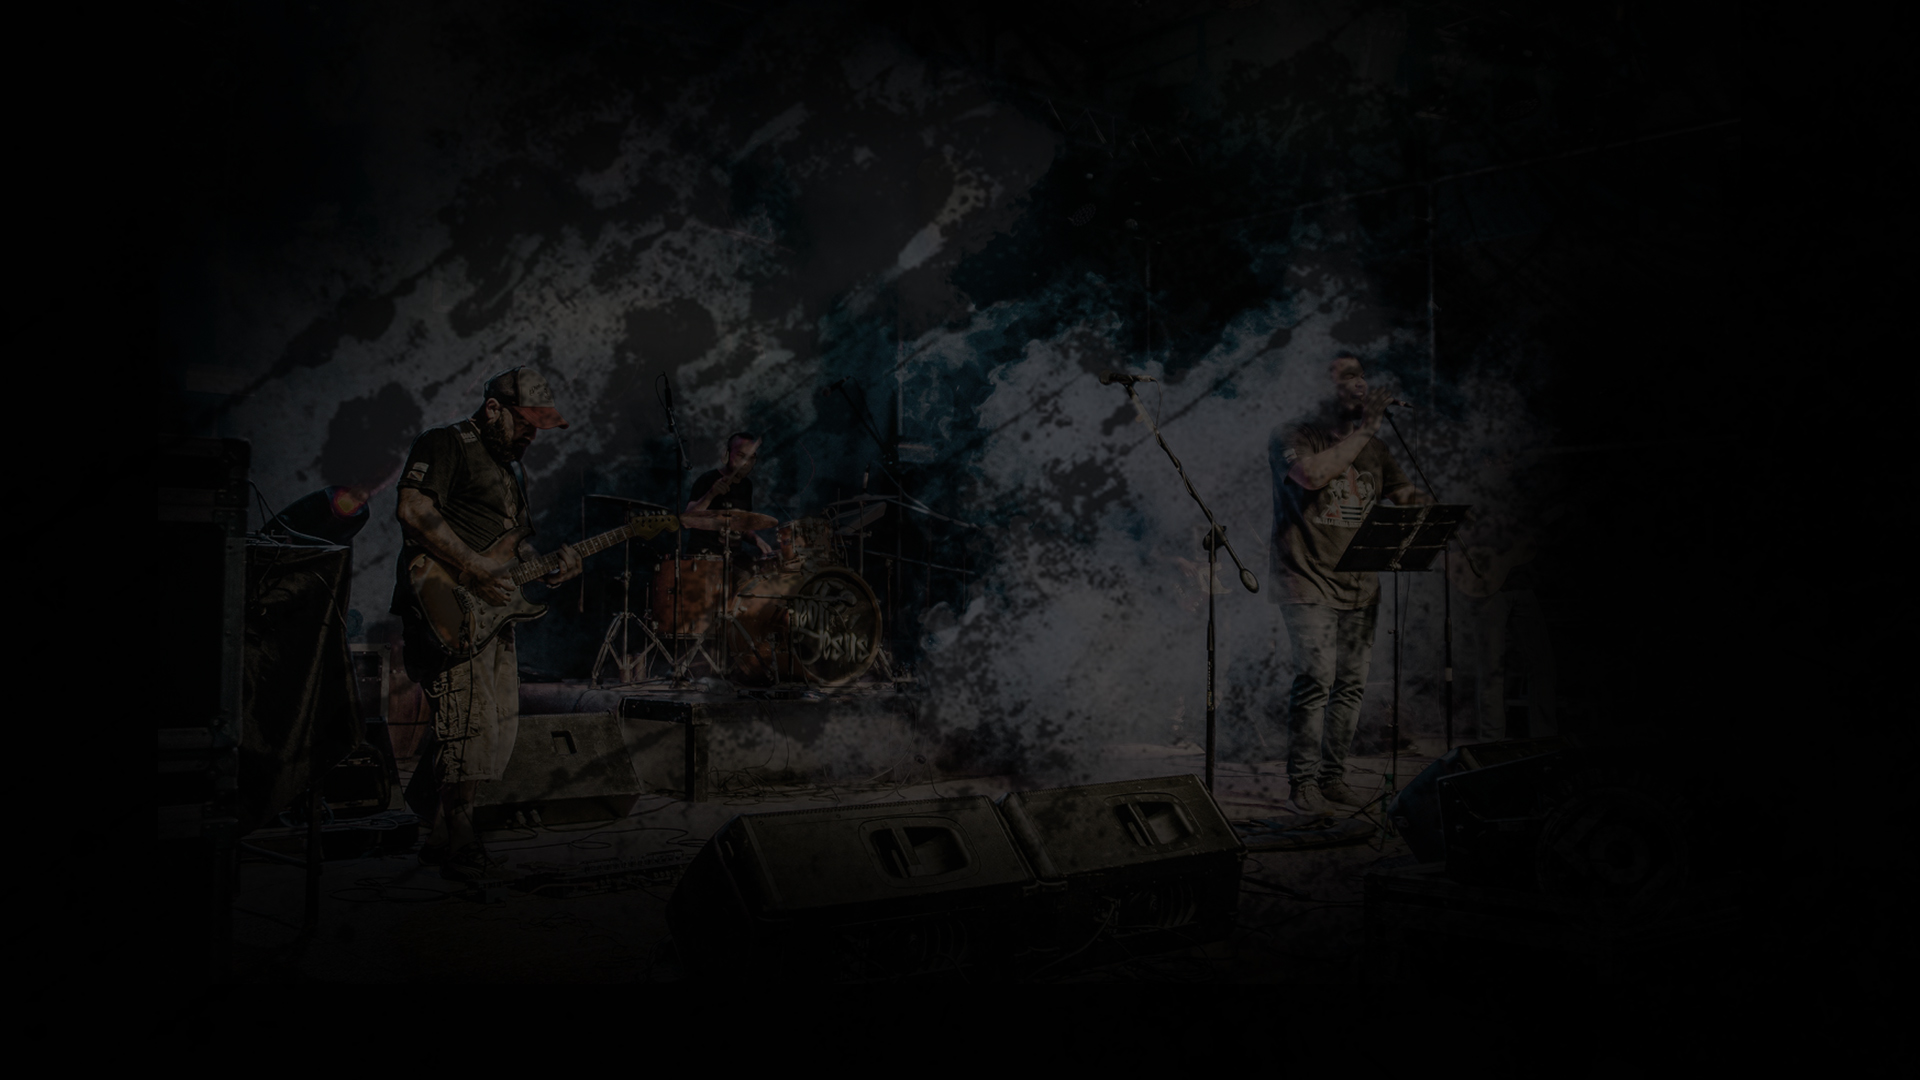
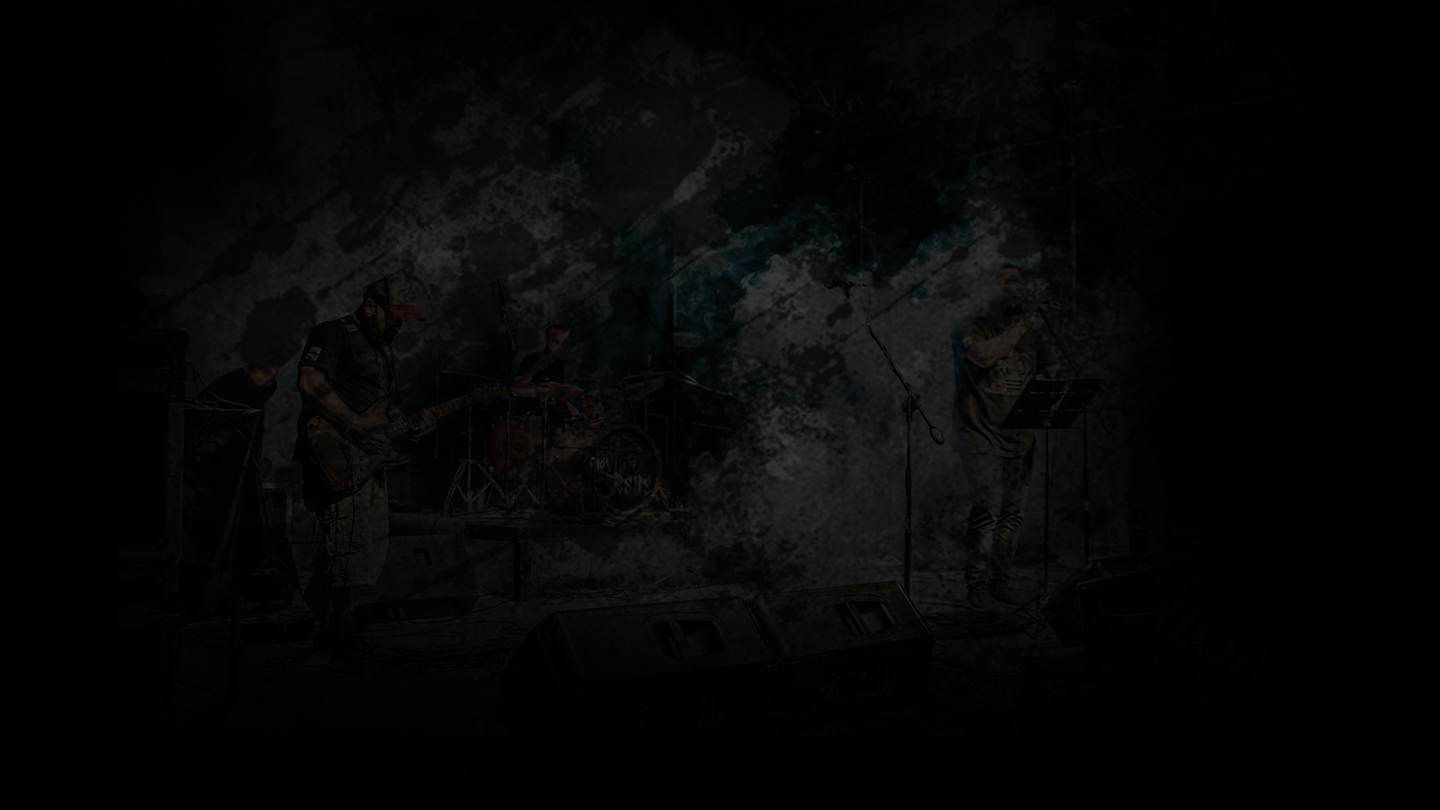
add page Lyrics and backgrounds

diff --git a/src/components/newsletter/Newsletter.jsx b/src/components/newsletter/Newsletter.jsx
@@ -3,10 +3,13 @@ import styled from "styled-components";
 
 const NewsContainer = styled.div`
   width: 100%;
+  height: 50vh;
   display: flex;
+  margin: auto;
   justify-content: center;
   align-items: center;
   color: white;
+  backdrop-filter: blur(2px);
 `;
 
 const NewsBody = styled.div`
@@ -40,9 +43,22 @@ const FormContainer = styled.div`
 `;
 const InputNews = styled.input`
   width: 30rem;
-  background-color: #999696;
+  height: 2.5rem;
+  padding: 2%;
+  background-color: #e0dede;
+  border-radius: 10px;
+  margin: 2% 0.5%;
   @media (max-width: 768px) {
     width: 100%;
+  }
+`;
+const InputButton = styled(InputNews)`
+  width: 15rem;
+  padding: 0;
+  color: white;
+  background-color: #474646;
+  &:hover {
+    background-color: #16d0ff;
   }
 `;
 
@@ -54,16 +70,16 @@ const NewsLetter = () => {
           <span role="img" aria-label="fire">
             🔥
           </span>
-          ¡Enterate de las ultimas novedades!
+          Suscribite a nuestro Whatsapp de difusion
           <span role="img" aria-label="fire">
             🔥
           </span>
         </h3>
-        <p>Suscribite a nuestro newsletter y recibí ofertas exclusivas </p>
+        <p>Mantenete al tanto de todas las novedades, peñas y demas!!! </p>
         <FormContainer>
           <form action="">
-            <InputNews type="email" placeholder="Tu Email..." />
-            <button>Suscribirse</button>
+            <InputNews type="text" placeholder="Tu Telefono" />
+            <InputButton type="submit" value="Enviar" />
           </form>
         </FormContainer>
       </NewsBody>

diff --git a/src/App.js b/src/App.js
@@ -7,11 +7,12 @@ import Gallery from "./pages/gallery/Gallery";
 import Listen from "./pages/listen/Listen";
 import Contact from "./pages/contact/Contact";
 import styled from 'styled-components';
-import back from './assets/img/back1.jpg'
+import back from './assets/img/back2.jpg'
 import background from './assets/img/background.jpg'
 import { Modal } from "./components/modal/Modal";
 import { useOpenImg } from './hooks/useOpenImg'
 import NewsLetter from "./components/newsletter/Newsletter";
+import Lyrics from "./pages/letras/Lyrics";
 
 
 
@@ -19,8 +20,8 @@ const AppContainer = styled.div`
 text-align: center;
   background-image: url(${background});
 background-size:cover;
-@media (max-width: 700px){
-  background-image: url(${background});
+@media (max-width: 768px){
+  background-image: url(${back});
 background-size:cover;
 }`
 
@@ -41,6 +42,7 @@ function App() {
         <Route path="about" element={<About />} />
         <Route path="gallery" element={<Gallery {...showModal} />} />
         <Route path="listen" element={<Listen />} />
+        <Route path="lyrics" element={<Lyrics />} />
         <Route path="contact" element={<Contact />} />
       </Routes>
       <NewsLetter />

diff --git a/src/pages/about/About.jsx b/src/pages/about/About.jsx
@@ -4,12 +4,15 @@ import styled from "styled-components";
 const Container = styled.div`
   margin: auto;
   padding: 2%;
+  backdrop-filter: grayscale(85%) contrast(95%);
 `;
 const Title = styled.h2`
   font-size: 2rem;
   color: antiquewhite;
 `;
 const P = styled.p`
+  font-family: "Roboto";
+  font-weight: 100;
   color: antiquewhite;
   letter-spacing: 0.1rem;
   margin-top: 1%;
@@ -23,7 +26,7 @@ const TextContainer = styled.div`
 const About = () => {
   return (
     <Container>
-      <Title>La Otra junta</Title>
+      <Title>Historia</Title>
       <TextContainer>
         <P>
           Somos un grupo folclórico formado a finales del 2015, influenciado por

diff --git a/src/pages/contact/Contact.jsx b/src/pages/contact/Contact.jsx
@@ -26,7 +26,7 @@ const FormContainer = styled.div`
   border-radius: 15px;
   input {
     width: 100%;
-    margin: 1rem auto 0.5rem;
+    margin: 1rem auto 1rem;
     padding: 2%;
     border-radius: 10px;
     border: none;
@@ -51,12 +51,18 @@ const FormContainer = styled.div`
     background-color: #1f7379;
   }
   @media (max-width: 700px) {
-    width: 90%;
+    width: 95%;
     padding: 2%;
     input {
-      height: 2.5rem;
-      margin: 0.5rem auto 0.5rem;
-      padding: 1%;
+      height: 1.9rem;
+      padding: 2%;
+    }
+    textarea {
+      height: 2.9rem;
+      padding: 2%;
+    }
+    button {
+      width: 90%;
     }
   }
 `;

diff --git a/src/pages/letras/Lyrics.jsx b/src/pages/letras/Lyrics.jsx
@@ -1,0 +1,20 @@
+import React from "react";
+import styled from "styled-components";
+const LyricsContainer = styled.div`
+  margin: auto;
+  display: flex;
+  justify-content: center;
+  align-items: center;
+  padding: 2%;
+  backdrop-filter: grayscale(85%) contrast(95%);
+`;
+
+const Lyrics = () => {
+  return (
+    <LyricsContainer>
+      <h2 style={{ color: "white" }}>Proximamente...</h2>
+    </LyricsContainer>
+  );
+};
+
+export default Lyrics;

diff --git a/src/pages/gallery/Gallery.jsx b/src/pages/gallery/Gallery.jsx
@@ -15,7 +15,7 @@ function srcset(image, size, rows = 1, cols = 1) {
 const Gallery = ({ setOpenModal }) => {
   return (
     <div className="galleryContainer">
-      <ImageList className="images" variant="quilted" cols={3} rowHeight={80}>
+      <ImageList className="images" variant="quilted" cols={3} rowHeight={70}>
         {dataGallery.map((item) => (
           <ImageListItem
             className="imageListItem"

diff --git a/src/pages/home/Home.jsx b/src/pages/home/Home.jsx
@@ -5,7 +5,7 @@ import { motion } from "framer-motion";
 
 const Container = styled.div`
   width: 100%;
-  height: 100vh;
+  height: 100%;
   padding: 2rem 12rem 4rem;
   color: #ebebeb;
   @media (max-width: 576px) {
@@ -30,7 +30,7 @@ const H1 = styled.h1`
   margin-bottom: 5rem;
   @media (max-width: 576px) {
     padding: 2%;
-    font-size: 4rem;
+    font-size: 3rem;
   }
 `;
 

diff --git a/src/components/menu/Menu.jsx b/src/components/menu/Menu.jsx
@@ -61,6 +61,9 @@ const Menu = ({ open, setOpen }) => {
       <Link onClick={() => setOpen(!open)} to="/listen">
         Escuchanos
       </Link>
+      <Link onClick={() => setOpen(!open)} to="/lyrics">
+        Letras
+      </Link>
       <Link onClick={() => setOpen(!open)} to="/contact">
         Contacto
       </Link>

diff --git a/src/index.css b/src/index.css
@@ -19,9 +19,9 @@ body {
     url("./assets/fonts/Roboto-Light.ttf") format("truetype");
 }
 
-@media only screen and (max-width: 600px) {
+@media (max-width: 768px) {
   body {
-    background-image: url("./assets/img/back2.png");
+    background-image: url("./assets/img/back2.jpg");
     background-size: cover;
   }
 }

diff --git a/src/pages/gallery/gallery.css b/src/pages/gallery/gallery.css
@@ -1,7 +1,7 @@
 .galleryContainer {
   position: relative;
-  min-width: 90%;
-  max-height: 75vh;
+  min-width: 80%;
+  min-height: 75vh;
   display: flex;
   justify-content: center;
   align-items: center;
